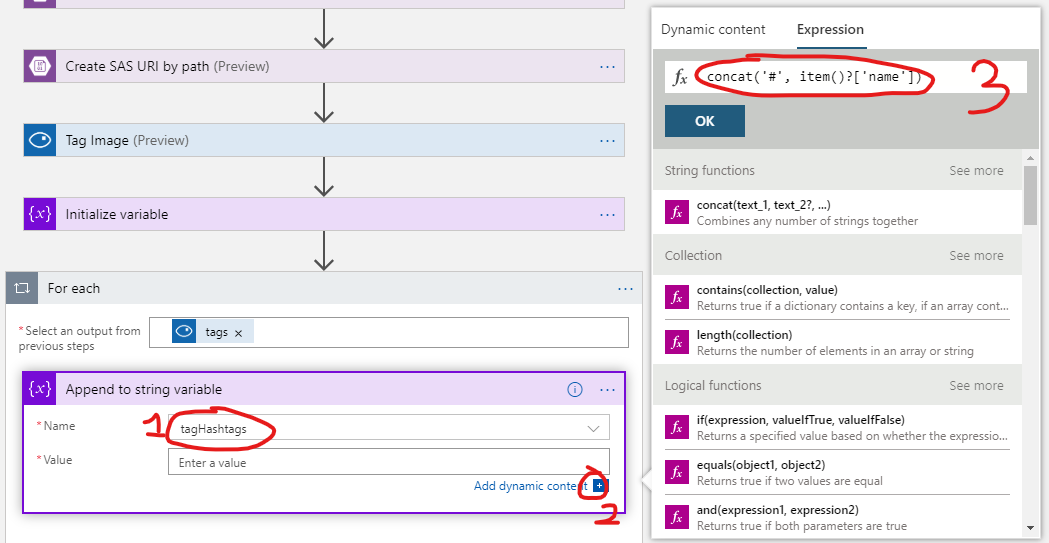
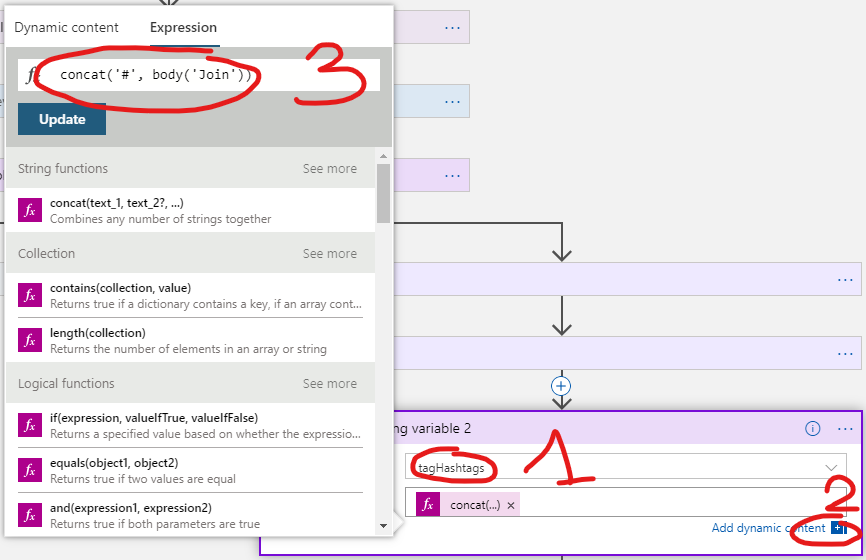
added collapsible paragraph

diff --git a/03_azure_functions/README.md b/03_azure_functions/README.md
@@ -7,6 +7,7 @@
 Click to expand!
 </summary>
 
+
 In the previous module we have created a static website.
 Now, we will be working on Functions that are triggered with HTTP requests.
 
@@ -19,6 +20,7 @@ Now, we will be working on Functions that are triggered with HTTP requests.
 Click to expand!
 </summary>
 
+
 In your own resource group you should have an Azure Storage Account - that is where (among other uses) the static website files from the first module are located.
 
 </details>
@@ -29,6 +31,7 @@ In your own resource group you should have an Azure Storage Account - that is wh
 <summary>
 Click to expand!
 </summary>
+
 
 ![](screenshots/Add-Function.PNG?raw=true "Add a Function")
 
@@ -67,6 +70,7 @@ Click **Create**. Your first function is ready to start! You can click **Run** t
 Click to expand!
 </summary>
 
+
 We need to create "Cognitive Services" to use Bing Search API to find images with gifts. To do so, add a new resource of type: "Cognitive Services". If you are not sure how to add a resource, look at the beginning of this tutorial to see how you have created Azure Function resource.
 
 ![](screenshots/cog1.PNG?raw=true "Cognitive Service")
@@ -86,6 +90,7 @@ You will need them for upcoming development phase. :)
 <summary>
 Click to expand!
 </summary>
+
 
 Now the journey begins! In the code of your Azure Function, create an empty asynchronous function, let’s call it "ProcessSearch".
 
@@ -177,6 +182,7 @@ Check if everything compiles. Should be!!!
 Click to expand!
 </summary>
 
+
 We need to create a binding! Instead of adding connection string in the code we can make it easier. First, create an application setting. Go to **Configuration**.
 
 ![](screenshots/Binding1.PNG?raw=true "Binding")
@@ -231,6 +237,7 @@ Well the binding is ready, let’s put the last chunks of code.
 Click to expand!
 </summary>
 
+
 Add the parameter to the **Run** function: “CloudBlockBlob outputBlob”. Add that parameter to the **ProcessSearch** function too.
 
 Fantastic! Now, go back to the ProcessSearch function. You have everything you need to fill in gaps in the code. You can copy all from the following snippet:
@@ -264,6 +271,7 @@ Awesome! I am glad you achieved the goal. :)
 <summary>
 Click to expand!
 </summary>
+
 
 "HttpTrigger1" is a default name, we can rename it to something more meaningful.
 So, go **App Service Editor**
@@ -315,6 +323,7 @@ After clicking **CORS**, paste the URL of your website there. **Save** changes.
 Click to expand!
 </summary>
 
+
 All in all, you can test if everything works. Think of unusual gift and send it. :)
 
 ![](screenshots/test1.PNG?raw=true "Testing")
@@ -348,6 +357,7 @@ Add a new function to get the uploaded image and post it to Azure Storage.
 <summary>
 Click to expand!
 </summary>
+
 
 1. Go to **Portal** then in Search input type **"Function"** and then select **Function App**.
 
@@ -384,6 +394,7 @@ Click to expand!
 <summary>
 Click to expand!
 </summary>
+
 
 Our function's skeleton looks like this:
 ```

diff --git a/05_logic_apps/Readme.md b/05_logic_apps/Readme.md
@@ -1,6 +1,12 @@
 # Logic apps
 
 ## Create blob trigger
+
+<details>
+<summary>
+Click to expand!
+</summary>
+
  * Open Azure portal (https://portal.azure.com)
  * Create a new LogicApp
  
@@ -62,7 +68,14 @@
 
   ![](screenshots/slack-config.png?raw=true)
 
+ </details>
+  
 ## Debugging a Logic App
+
+<details>
+<summary>
+Click to expand!
+</summary>
 
 * Click on `Save` and `Run`
 
@@ -94,6 +107,8 @@
 ![](screenshots/slack-result.png?raw=true)
 
 * You may modify the `Slack` action parameters to format the message better (e.g. enable `Post As User`)
+
+</details>
 
 # Logic App Extras
 
@@ -163,27 +178,37 @@ Click to expand!
 
 After all of that we need to add two steps to our Logic App:
 - Initialize variable
-- For each control action (to interate through returned tags)
+- Select names from tag list
+- Join names with # to create hashtags
+- Append hashtags to variable created before
 
 Add **Initialize variable** from Variables  as one below:
 
 ![](screenshots/initialize-variable.png?raw=true)
 
-After this step, add new step called **For each** from Control connector:
+After this step, add new step called **Select** from Data Operations connector:
 
-![](screenshots/for-each.png?raw=true)
+![](screenshots/add-select.png?raw=true)
 
-To select the collection through which we will iterate, in **Output** control select tags:
+To select the collection fromt which we will select values, in **From** input select "tags", and in **Map** input choose "Tag Name"
 
 ![](screenshots/select-tags.png?raw=true)
 
-Now, it is a time to select an action for each 'for-each'. Choose **Append to string variable** action from Variables connector. 
+![](screenshots/select-tag-names.png?raw=true)
+
+Now, it is a time to join all names to create hashtags. Add new step and search for **Join** from Data Operations connector:
+
+![](screenshots/add-join.png?raw=true)
+
+In the **From** input choose Select Output and in **Join with** put ` #`:
+
+![](screenshots/join.png?raw=true)
+
+Last part is to appennd hastags to Choose **Append to string variable** action from Variables connector. 
 
 ![](screenshots/append-to-string-variable.png?raw=true)
 
-Then choose variable which you have initialize before:
-
-In the Value put Expression: `concat('#', item()?['name'])` 
+Then choose variable which you have initialize before. In the **Value** put Expression: `concat('#', item()?['name'])` 
 
 ![](screenshots/append-to-string-variable-2.png?raw=true)
 

diff --git a/02_storage_account/README.md b/02_storage_account/README.md
@@ -2,11 +2,23 @@
 
 ## 1. Create storage account
 
+<details>
+<summary>
+Click to expand!
+</summary>
+
 ![](screenshots/1portal_azure_home.png?raw=true "Azure portal home")
 
 ![](screenshots/p_a_sorage_accounts2.PNG?raw=true "Add new storage account")
 
+</details>
+
 ### Hints:
+
+<details>
+<summary>
+Click to expand!
+</summary>
 
 If there is no resource group you can choose, you must create one.
 The name of storage account must be unique across all existing storage account names in Azure. It must be 3 to 24 characters long and can contain only lowercase letters and numbers.
@@ -23,7 +35,14 @@ After successful validation press “Create” button.
 
 When your deployment is complete go to your new storage account.
 
+</details>
+
 ## 2. Enable static website
+
+<details>
+<summary>
+Click to expand!
+</summary>
 
 On the left side menu click "Static website"
 
@@ -33,29 +52,66 @@ On the left side menu click "Static website"
 
 Fill index document name and error path and save changes.
 
+</details>
+
 ## 3. Azure Storage container
+
+<details>
+<summary>
+Click to expand!
+</summary>
 
 After you save changes, an Azure Storage container has been created automatically to host your static website ($web)
 
 ![](screenshots/containercreated7.PNG?raw=true "Static website endpoints")
 
+</details>
+
 ## 4. Go to container and choose $web
+
+<details>
+<summary>
+Click to expand!
+</summary>
 
 ![](screenshots/containerweb8.PNG?raw=true "Containers")
 
+</details>
+
 ## 5. Upload files (index.html, 404.html, style.css, bg.jpg, extra.png)
+
+<details>
+<summary>
+Click to expand!
+</summary>
 
 ![](screenshots/uploadfiles9.PNG?raw=true "Upload files")
 
+</details>
+
 ## 6.Go back to static website, copy primary endpoint, paste into browser and run
+
+<details>
+<summary>
+Click to expand!
+</summary>
 
 ![](screenshots/application.PNG?raw=true "Secret Santa Website")
 
+</details>
+
 ## 7.Yay! It’s working!
+
+<details>
+<summary>
+Click to expand!
+</summary>
 
 ## ... and if it’s not:
 
 ![](screenshots/workingforme.jpg?raw=true "It's wroking fine for me")
+
+</details>
 
 # Extras
 
